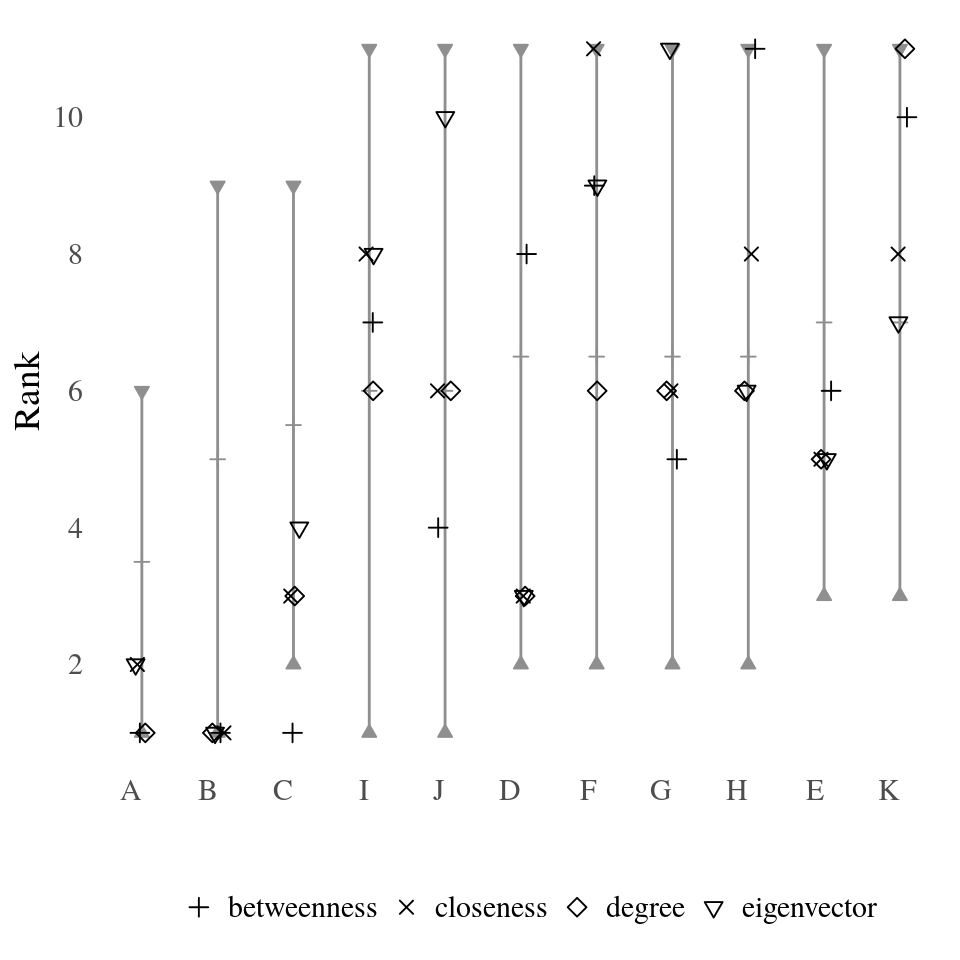
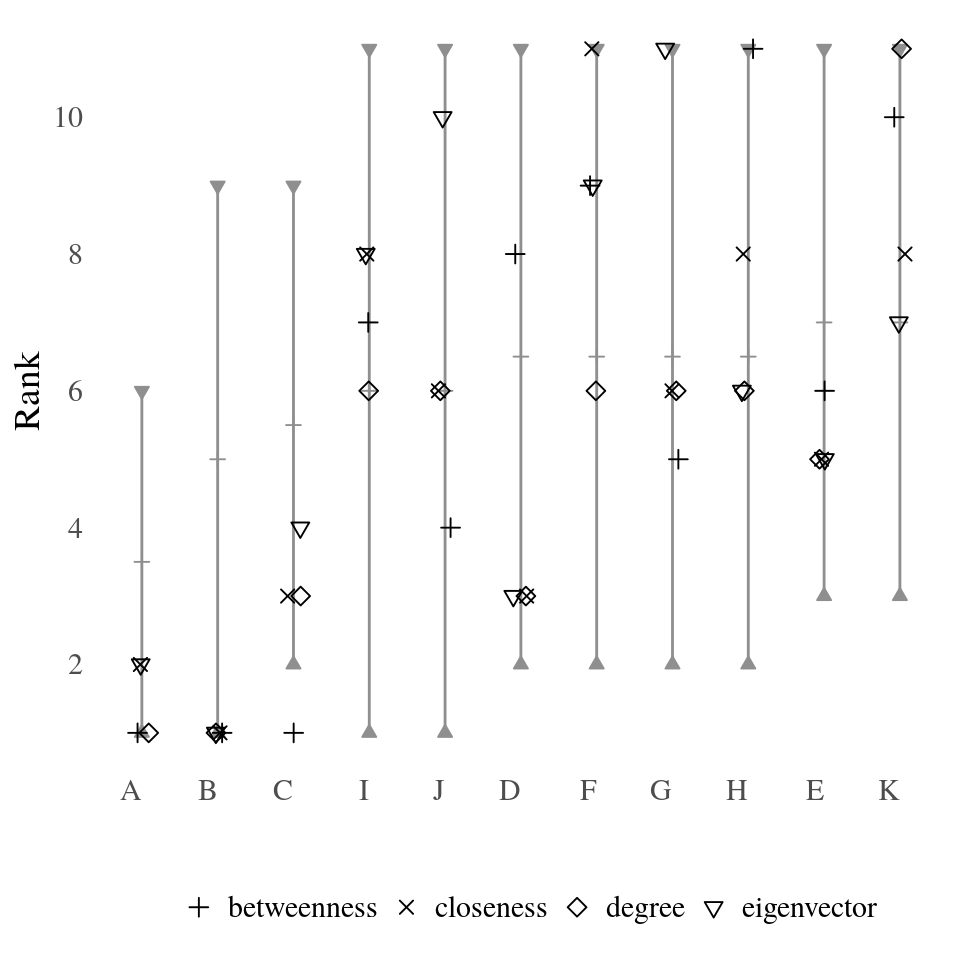
updated theme

diff --git a/docs/reference/plot_rank_intervals.html b/docs/reference/plot_rank_intervals.html
@@ -164,14 +164,14 @@
 <span class='no'>g</span> <span class='kw'>&lt;-</span> <span class='fu'><a href='http://www.rdocumentation.org/packages/igraph/topics/add_edges'>add_edges</a></span>(<span class='no'>g</span>,<span class='fu'>c</span>(<span class='fl'>1</span>,<span class='fl'>11</span>,<span class='fl'>2</span>,<span class='fl'>4</span>,<span class='fl'>3</span>,<span class='fl'>5</span>,<span class='fl'>3</span>,<span class='fl'>11</span>,<span class='fl'>4</span>,<span class='fl'>8</span>,<span class='fl'>5</span>,<span class='fl'>9</span>,<span class='fl'>5</span>,<span class='fl'>11</span>,<span class='fl'>6</span>,<span class='fl'>7</span>,<span class='fl'>6</span>,<span class='fl'>8</span>,
                    <span class='fl'>6</span>,<span class='fl'>10</span>,<span class='fl'>6</span>,<span class='fl'>11</span>,<span class='fl'>7</span>,<span class='fl'>9</span>,<span class='fl'>7</span>,<span class='fl'>10</span>,<span class='fl'>7</span>,<span class='fl'>11</span>,<span class='fl'>8</span>,<span class='fl'>9</span>,<span class='fl'>8</span>,<span class='fl'>10</span>,<span class='fl'>9</span>,<span class='fl'>10</span>))
 <span class='no'>P</span> <span class='kw'>&lt;-</span> <span class='fu'><a href='neighborhood_inclusion.html'>neighborhood_inclusion</a></span>(<span class='no'>g</span>)
-<span class='fu'>plot_rank_intervals</span>(<span class='no'>P</span>)</div><div class='img'><img src='plot_rank_intervals-13.png' alt='' width='700' height='432.632880098887' /></div><div class='input'>
+<span class='fu'>plot_rank_intervals</span>(<span class='no'>P</span>)</div><div class='img'><img src='plot_rank_intervals-17.png' alt='' width='700' height='432.632880098887' /></div><div class='input'>
 <span class='co'>#adding index based rankings</span>
 <span class='no'>cent_scores</span> <span class='kw'>&lt;-</span> <span class='fu'>data.frame</span>(
   <span class='kw'>degree</span><span class='kw'>=</span><span class='fu'><a href='http://www.rdocumentation.org/packages/igraph/topics/degree'>degree</a></span>(<span class='no'>g</span>),
   <span class='kw'>betweenness</span><span class='kw'>=</span><span class='fu'>round</span>(<span class='fu'><a href='http://www.rdocumentation.org/packages/igraph/topics/betweenness'>betweenness</a></span>(<span class='no'>g</span>),<span class='fl'>4</span>),
   <span class='kw'>closeness</span><span class='kw'>=</span><span class='fu'>round</span>(<span class='fu'><a href='http://www.rdocumentation.org/packages/igraph/topics/closeness'>closeness</a></span>(<span class='no'>g</span>),<span class='fl'>4</span>),
   <span class='kw'>eigenvector</span><span class='kw'>=</span><span class='fu'>round</span>(<span class='fu'><a href='http://www.rdocumentation.org/packages/igraph/topics/eigen_centrality'>eigen_centrality</a></span>(<span class='no'>g</span>)$<span class='no'>vector</span>,<span class='fl'>4</span>))
-<span class='fu'>plot_rank_intervals</span>(<span class='no'>P</span>,<span class='kw'>cent.df</span><span class='kw'>=</span><span class='no'>cent_scores</span>)</div><div class='img'><img src='plot_rank_intervals-14.png' alt='' width='700' height='432.632880098887' /></div></pre>
+<span class='fu'>plot_rank_intervals</span>(<span class='no'>P</span>,<span class='kw'>cent.df</span><span class='kw'>=</span><span class='no'>cent_scores</span>)</div><div class='img'><img src='plot_rank_intervals-18.png' alt='' width='700' height='432.632880098887' /></div></pre>
   </div>
   <div class="col-md-3 hidden-xs hidden-sm" id="sidebar">
     <h2>Contents</h2>

diff --git a/docs/reference/dominance_graph.html b/docs/reference/dominance_graph.html
@@ -154,10 +154,10 @@
 <span class='no'>g</span> <span class='kw'>&lt;-</span> <span class='fu'><a href='threshold_graph.html'>threshold_graph</a></span>(<span class='fl'>20</span>,<span class='fl'>0.1</span>)
 <span class='no'>P</span> <span class='kw'>&lt;-</span> <span class='fu'><a href='neighborhood_inclusion.html'>neighborhood_inclusion</a></span>(<span class='no'>g</span>)
 <span class='no'>d</span> <span class='kw'>&lt;-</span> <span class='fu'>dominance_graph</span>(<span class='no'>P</span>)
-<span class='fu'>plot</span>(<span class='no'>d</span>)</div><div class='img'><img src='dominance_graph-13.png' alt='' width='700' height='432.632880098887' /></div><div class='input'><span class='co'># to reduce overplotting use transitive reduction</span>
+<span class='fu'>plot</span>(<span class='no'>d</span>)</div><div class='img'><img src='dominance_graph-17.png' alt='' width='700' height='432.632880098887' /></div><div class='input'><span class='co'># to reduce overplotting use transitive reduction</span>
 <span class='no'>P</span> <span class='kw'>&lt;-</span> <span class='fu'><a href='transitive_reduction.html'>transitive_reduction</a></span>(<span class='no'>P</span>)
 <span class='no'>d</span> <span class='kw'>&lt;-</span> <span class='fu'>dominance_graph</span>(<span class='no'>P</span>)
-<span class='fu'>plot</span>(<span class='no'>d</span>)</div><div class='img'><img src='dominance_graph-14.png' alt='' width='700' height='432.632880098887' /></div></pre>
+<span class='fu'>plot</span>(<span class='no'>d</span>)</div><div class='img'><img src='dominance_graph-18.png' alt='' width='700' height='432.632880098887' /></div></pre>
   </div>
   <div class="col-md-3 hidden-xs hidden-sm" id="sidebar">
     <h2>Contents</h2>
